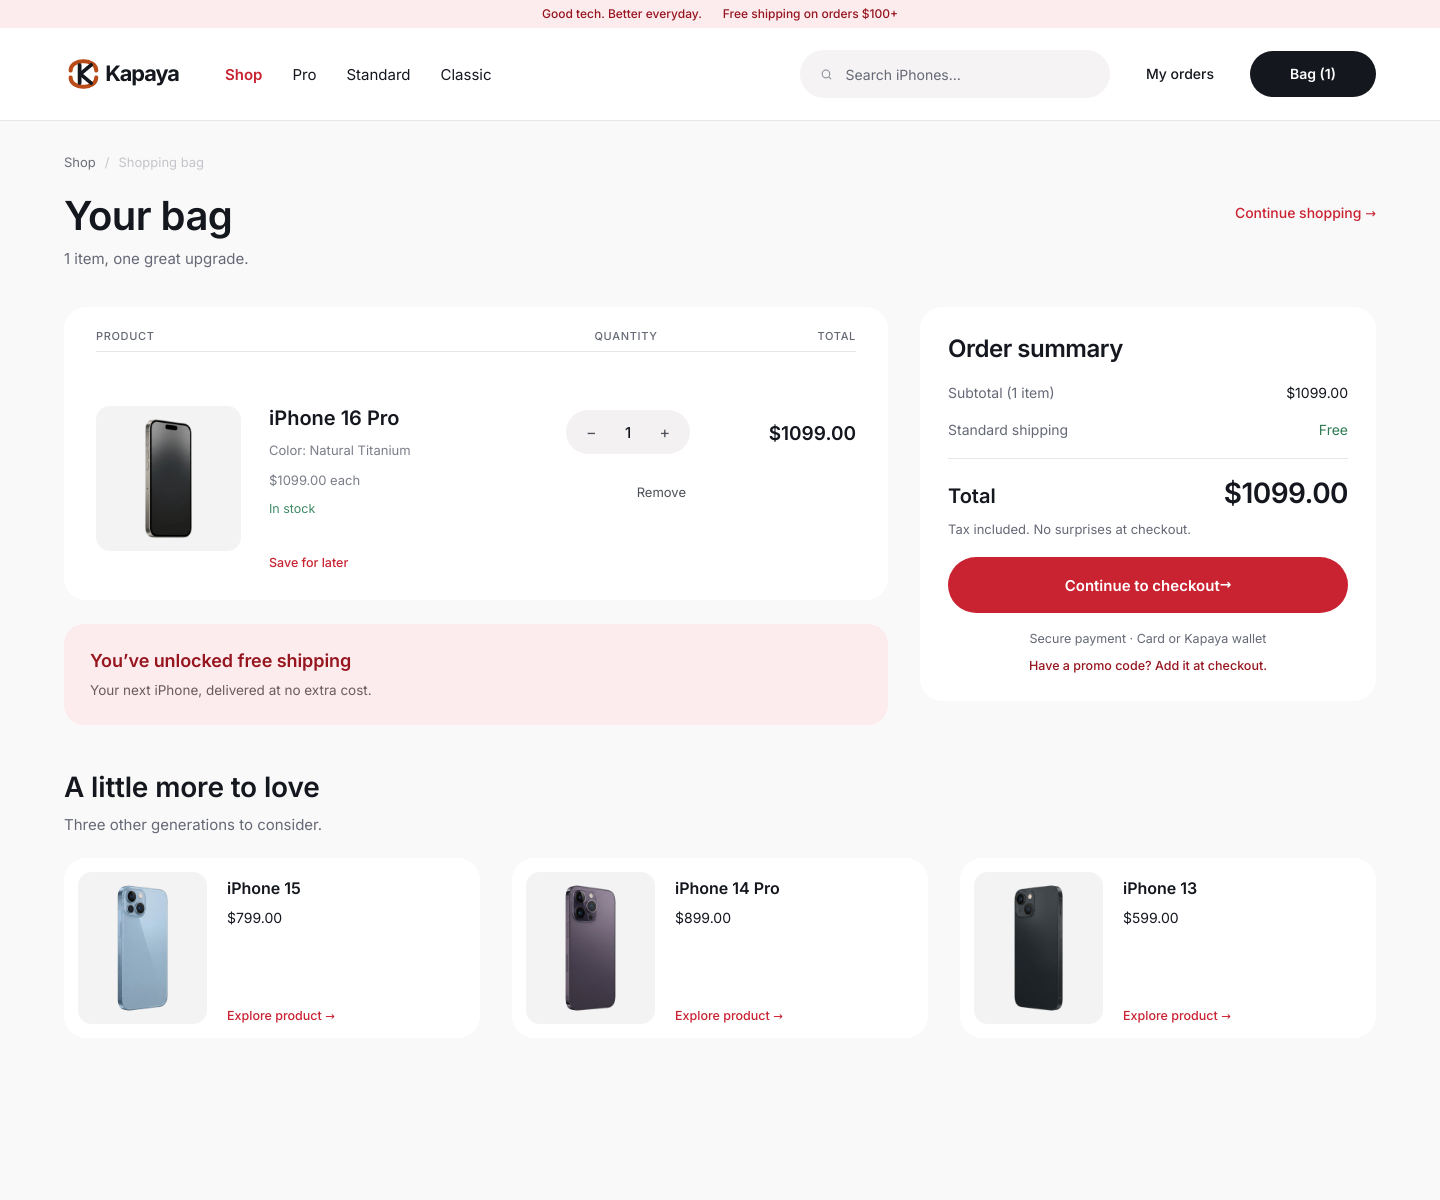
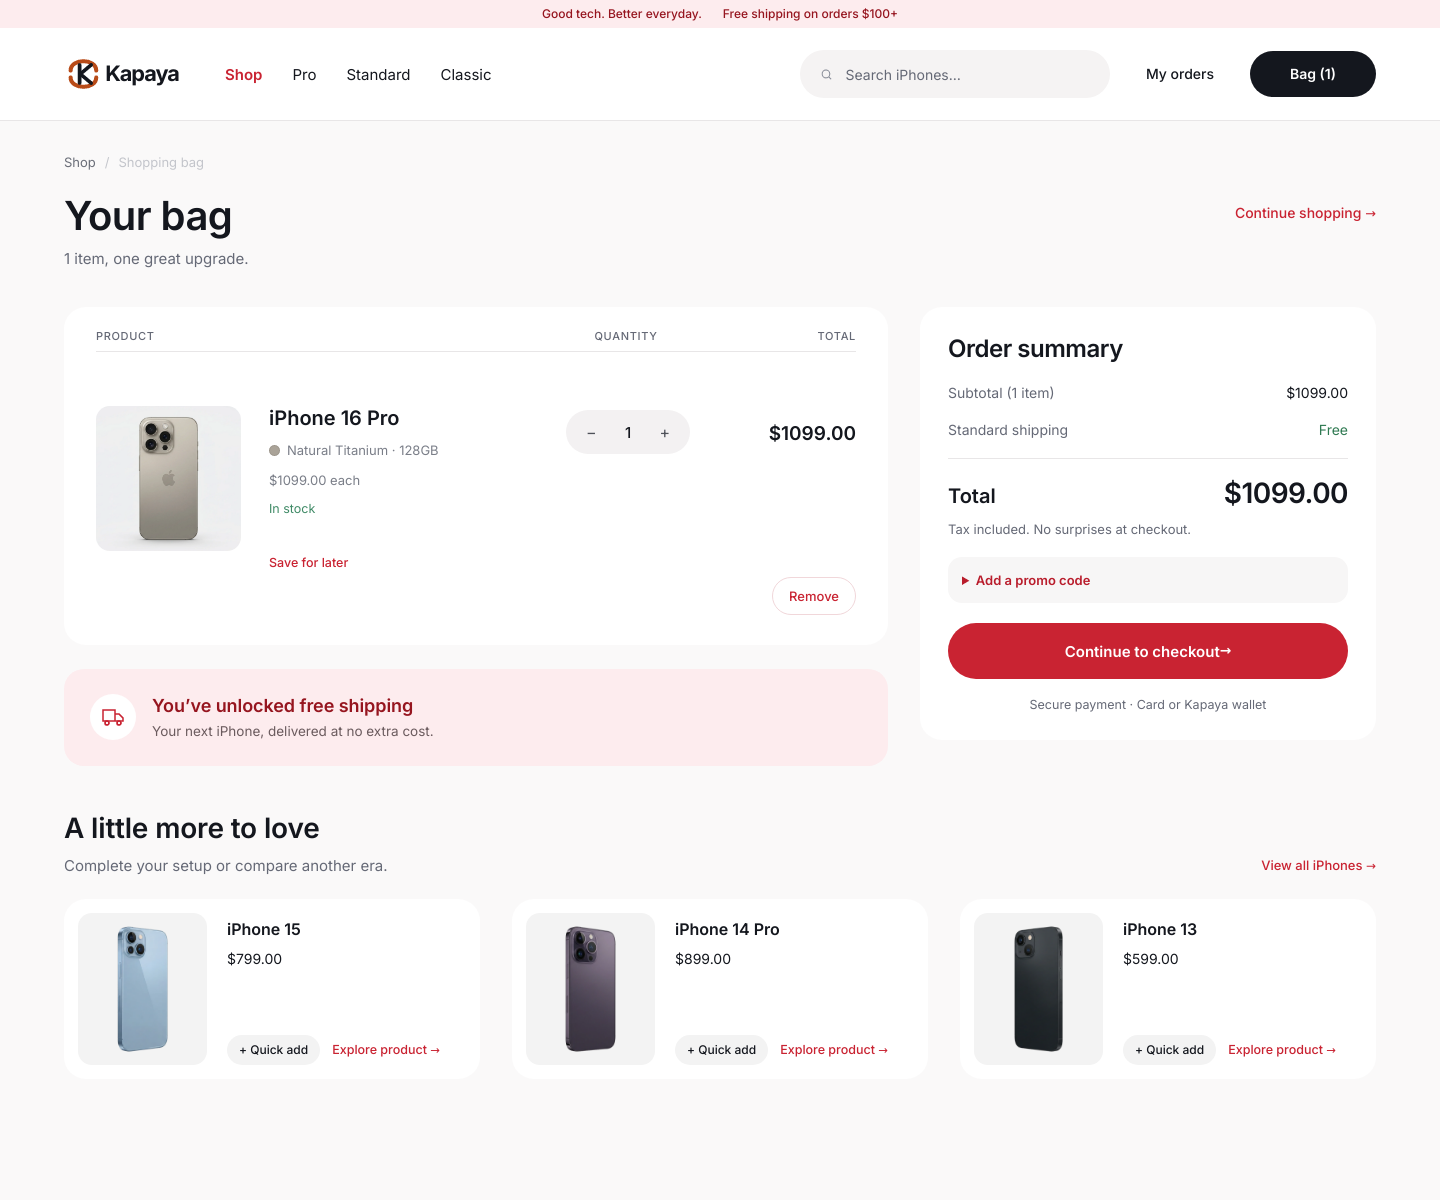
Upgrade bag layout and item controls

diff --git a/docs/mockup/index.html b/docs/mockup/index.html
@@ -1264,6 +1264,87 @@ body.is-shop .shop-footer{display:block;margin-top:auto}
   .home-ftr{padding:36px 24px 24px}
 }
 
+/* Bag: clear item controls and an editorial order summary. */
+.bag-page .bag-card{position:relative}
+.bag-page .bag-thumb img{object-fit:cover;padding:0}
+.bag-page .bag-row{position:relative;padding-bottom:45px}
+.bag-page .bag-remove{position:absolute;right:0;bottom:0;min-height:38px;padding:0 16px;margin:0;border:1px solid #f1d7da;border-radius:20px;background:#fff;color:#C92332;font:500 13px/1 Inter,sans-serif}
+.bag-page .bag-remove:hover{background:#fcecee;border-color:#e6aeb5}
+.bag-finish{display:flex;align-items:center;gap:7px}
+.bag-finish-dot{width:11px;height:11px;border-radius:50%;flex:none;border:1px solid rgba(0,0,0,.08)}
+.bag-page .ship-note{display:flex;align-items:center;gap:16px}
+.ship-icon{width:46px;height:46px;border-radius:50%;display:flex;flex:none;align-items:center;justify-content:center;background:#fff;color:#C92332}
+.ship-icon svg{width:24px;height:24px}
+.bag-page .ship-p{margin-top:5px}
+.bag-promo{background:#f7f6f6;border-radius:14px;padding:14px;margin-top:20px}
+.bag-promo summary{color:#b91d2c;font:600 13px/18px Inter;cursor:pointer}
+.bag-promo .promo-row{gap:8px}
+.bag-promo .promo-input{height:42px;background:#fff;font-size:13px}
+.bag-promo .promo-btn{height:42px;padding:0 16px;font-size:13px}
+.bag-recommend-head{display:flex;align-items:end;justify-content:space-between;gap:12px}
+.bag-view-all{color:#C92332;font:500 13px/18px Inter;white-space:nowrap}
+.also-actions{display:flex;align-items:center;flex-wrap:wrap;gap:12px;margin-top:auto;padding-top:12px}
+.also-actions .also-link{margin:0}
+.also-quick{padding:9px 12px;border-radius:18px;background:#f3f3f3;font:500 12px/1 Inter}
+.also-quick:hover{background:#e8e6e7}
+@media(max-width:960px){
+ .bag-page .bag-row{grid-template-columns:minmax(0,1fr) auto;gap:12px;padding:0 0 48px}
+ .bag-page .bag-prod{grid-row:1 / 3}
+ .bag-page .bag-qty{grid-column:2;grid-row:2;align-items:flex-end;padding:0}
+ .bag-page .bag-total{grid-column:2;grid-row:1;display:block;text-align:right;padding:0}
+ .bag-page .bag-inline-total{display:none}
+ .bag-page .bag-cols{display:none}
+}
+@media(max-width:767px){
+ .bag-page{padding:18px 14px 32px}
+ .bag-page .bag-head{margin-top:13px;gap:8px}
+ .bag-page .page-h{font-size:28px;line-height:34px}
+ .bag-page .page-p{font-size:13px;margin-top:4px}
+ .bag-page .continue{font-size:12px;margin-top:10px}
+ .bag-page .bag-grid{gap:12px;margin-top:18px}
+ .bag-page .bag-main{gap:10px}
+ .bag-page .bag-card{padding:14px;border-radius:16px;box-shadow:0 2px 14px rgba(20,23,30,.035)}
+ .bag-page .bag-row{grid-template-columns:minmax(0,1fr) auto;gap:5px 8px;padding:0 0 44px}
+ .bag-page .bag-prod{gap:12px;min-width:0}
+ .bag-page .bag-thumb{width:76px;height:96px;border-radius:11px}
+ .bag-page .bag-thumb img{object-fit:cover;padding:0}
+ .bag-page .bag-info{min-width:0}
+ .bag-page .bag-name{font-size:15px;line-height:19px}
+ .bag-page .bag-meta{font-size:11px;line-height:15px;margin-top:5px}
+ .bag-page .bag-stock{font-size:11px;margin-top:5px}
+ .bag-page .bag-save{position:absolute;bottom:4px;left:88px;margin:0;min-height:34px;font-size:11px}
+ .bag-page .bag-total{font-size:14px;line-height:19px;white-space:nowrap}
+ .bag-page .bag-qty{justify-content:flex-start}
+ .bag-page .stepper.sm{width:92px;height:34px}
+ .bag-page .stepper.sm .step{width:30px;height:34px}
+ .bag-page .bag-remove{min-height:34px;padding:0 12px;font-size:11px}
+ .bag-page .ship-note{padding:13px;border-radius:14px;gap:12px}
+ .bag-page .ship-icon{width:42px;height:42px}
+ .bag-page .ship-h{font-size:14px;line-height:18px}
+ .bag-page .ship-p{font-size:12px;line-height:16px}
+ .bag-page .summary{padding:20px;border-radius:16px;box-shadow:0 2px 14px rgba(20,23,30,.035)}
+ .bag-page .sum-h{font-size:20px;line-height:25px}
+ .bag-page .sum-line{font-size:13px;margin-top:14px}
+ .bag-page .sum-total span:last-child{font-size:23px}
+ .bag-page .sum-tax{font-size:12px;margin-top:6px}
+ .bag-page .btn-checkout{height:50px;margin-top:14px}
+ .bag-page .sum-secure{font-size:11px;margin-top:13px}
+ .bag-page .sec-h.narrow{font-size:20px;line-height:25px;margin-top:25px}
+ .bag-page .sec-p{font-size:12px;line-height:17px;margin-top:4px}
+ .bag-page .bag-view-all{font-size:11px}
+ .bag-page .also{grid-template-columns:repeat(2,minmax(0,1fr));gap:8px;margin-top:12px}
+ .bag-page .also-card{grid-template-columns:60px minmax(0,1fr);gap:8px;padding:8px;border-radius:13px}
+ .bag-page .also-plate{width:60px;height:88px;border-radius:9px}
+ .bag-page .also-body{padding:2px 0 0;min-width:0}
+ .bag-page .also-name{font-size:11px;line-height:14px}
+ .bag-page .also-price{font-size:11px;line-height:14px;margin-top:4px}
+ .bag-page .also-actions{gap:5px;padding-top:6px}
+ .bag-page .also-quick{font-size:10px;padding:7px}
+ .bag-page .also-link{font-size:0}
+ .bag-page .also-link .arw{font-size:15px}
+}
+@media(max-width:360px){.bag-page .bag-thumb{width:62px;height:90px}.bag-page .bag-prod{gap:8px}.bag-page .bag-save{left:70px}.bag-page .bag-total{font-size:12px}.bag-page .stepper.sm{width:80px}.bag-page .also-card{grid-template-columns:48px minmax(0,1fr)}.bag-page .also-plate{width:48px;height:78px}}
+
 /* Shared mobile navigation and compact storefront. */
 .mobile-chrome,.mobile-bottom{display:none}
 @media(max-width:767px){
@@ -1755,7 +1836,7 @@ const bag = (state) => {
   const also = PRODUCTS.filter((p) => !inBag.includes(p.id)).slice(0, 3);
 
   return `
-<main class="page">
+<main class="page bag-page">
   <p class="crumb"><a data-go="shop">Shop</a><span>/</span><span class="cur">Shopping bag</span></p>
 
   <div class="bag-head">
@@ -1780,11 +1861,11 @@ const bag = (state) => {
           <div class="bag-cols"><span>PRODUCT</span><span class="c-q">QUANTITY</span><span class="c-t">TOTAL</span></div>
           <div class="bag-row">
             <div class="bag-prod">
-              <div class="bag-thumb">${p.thumb ? `<img src="${img(p.thumb)}" alt="${p.name}">` : art(p.art)}</div>
+              <div class="bag-thumb"><img src="${img(productGallery(p, l.color)[0].image)}" alt="${p.name} in ${l.color}"></div>
               <div class="bag-info">
                 <h3 class="bag-name"><a data-go="product" data-arg="${p.id}">${p.name}</a></h3>
                 ${l.qty > 1 ? `<p class="bag-inline-total">${money(linePrice(l) * l.qty)} total</p>` : ''}
-                <p class="bag-meta">Color: ${l.color}${l.storage ? ` · ${l.storage}` : ''}</p>
+                <p class="bag-meta bag-finish"><span class="bag-finish-dot" style="background:${finishColors[l.color] || '#aaa'}"></span>${l.color} · ${l.storage || '128GB'}</p>
                 <p class="bag-meta">${money(linePrice(l))} each</p>
                 <p class="bag-stock">In stock</p>
                 <button class="bag-save" data-save="${l.id}" data-line-index="${lineIndex}">Save for later</button>
@@ -1792,26 +1873,26 @@ const bag = (state) => {
             </div>
             <div class="bag-qty">
               <div class="stepper sm">
-                <button class="step" data-line-qty="${l.id}" data-line-index="${lineIndex}" data-d="-1">−</button>
+                <button class="step" aria-label="Decrease ${p.name} quantity" data-line-qty="${l.id}" data-line-index="${lineIndex}" data-d="-1">−</button>
                 <span class="step-n">${l.qty}</span>
-                <button class="step" data-line-qty="${l.id}" data-line-index="${lineIndex}" data-d="1">+</button>
+                <button class="step" aria-label="Increase ${p.name} quantity" data-line-qty="${l.id}" data-line-index="${lineIndex}" data-d="1">+</button>
               </div>
-              <button class="bag-remove" data-remove="${l.id}" data-line-index="${lineIndex}">Remove</button>
             </div>
             <div class="bag-total">${money(linePrice(l) * l.qty)}</div>
+            <button class="bag-remove" aria-label="Remove ${p.name} in ${l.color} from bag" data-remove="${l.id}" data-line-index="${lineIndex}">Remove</button>
           </div>
         </div>`;
       }).join('')}
 
       ${subtotal >= 100
-        ? `<div class="ship-note">
+        ? `<div class="ship-note"><span class="ship-icon" aria-hidden="true"><svg viewBox="0 0 24 24" fill="none" stroke="currentColor" stroke-width="1.7"><path d="M2 5h12v11H2zM14 9h4l4 4v3h-8z"/><circle cx="6" cy="18" r="2"/><circle cx="18" cy="18" r="2"/></svg></span><div>
              <p class="ship-h">You’ve unlocked free shipping</p>
              <p class="ship-p">Your next iPhone, delivered at no extra cost.</p>
-           </div>`
-        : `<div class="ship-note">
+           </div></div>`
+        : `<div class="ship-note"><span class="ship-icon" aria-hidden="true"><svg viewBox="0 0 24 24" fill="none" stroke="currentColor" stroke-width="1.7"><path d="M2 5h12v11H2zM14 9h4l4 4v3h-8z"/><circle cx="6" cy="18" r="2"/><circle cx="18" cy="18" r="2"/></svg></span><div>
              <p class="ship-h">${money(100 - subtotal)} from free shipping</p>
              <p class="ship-p">Add a little more and standard delivery is on us.</p>
-           </div>`}
+           </div></div>`}
     </div>
 
     <aside class="summary">
@@ -1819,16 +1900,21 @@ const bag = (state) => {
       <div class="sum-line"><span>Subtotal (${count} item${count === 1 ? '' : 's'})</span><span>${money(subtotal)}</span></div>
       <div class="sum-line"><span>Standard shipping</span><span class="${ship === 0 ? 'green' : ''}">${ship === 0 ? 'Free' : money(ship)}</span></div>
       <div class="sum-rule"></div>
-      <div class="sum-total"><span>Total</span><span>${money(total)}</span></div>
+      ${state.discount ? `<div class="sum-line"><span>KAPAYA10</span><span class="green">−${money(state.discount)}</span></div>` : ''}
+      <div class="sum-total"><span>Total</span><span>${money(total - state.discount)}</span></div>
       <p class="sum-tax">Tax included. No surprises at checkout.</p>
+      <details class="bag-promo" ${state.promoMsg ? 'open' : ''}>
+        <summary>Add a promo code</summary>
+        <div class="promo-row"><input class="promo-input" data-promo aria-label="Promo code" placeholder="Enter code" value="${state.promo.replace(/&/g, '&amp;').replace(/"/g, '&quot;').replace(/</g, '&lt;')}"><button class="promo-btn" type="button" data-apply>Apply</button></div>
+        ${state.promoMsg ? `<p class="promo-msg" role="status">${state.promoMsg}</p>` : ''}
+      </details>
       <button class="btn-red btn-checkout" data-go="checkout">Continue to checkout <span class="arw">→</span></button>
       <p class="sum-secure">Secure payment · Card or Kapaya wallet</p>
-      <p class="sum-promo">Have a promo code? Add it at checkout.</p>
     </aside>
   </div>
 
-  <h2 class="sec-h narrow">A little more to love</h2>
-  <p class="sec-p">Three other generations to consider.</p>
+  <div class="bag-recommend-head"><div><h2 class="sec-h narrow">A little more to love</h2>
+  <p class="sec-p">Complete your setup or compare another era.</p></div><a class="bag-view-all" data-go="shop">View all iPhones <span class="arw">→</span></a></div>
   <div class="also">
     ${also.map((p) => `<article class="also-card">
       <a class="also-plate" data-go="product" data-arg="${p.id}">
@@ -1837,7 +1923,7 @@ const bag = (state) => {
       <div class="also-body">
         <h3 class="also-name"><a data-go="product" data-arg="${p.id}">${p.name}</a></h3>
         <p class="also-price">${money(p.price)}</p>
-        <a class="also-link" data-go="product" data-arg="${p.id}">Explore product <span class="arw">→</span></a>
+        <div class="also-actions"><button class="also-quick" data-quick-add="${p.id}" aria-label="Quick add ${p.name} to bag">+ Quick add</button><a class="also-link" data-go="product" data-arg="${p.id}" aria-label="Explore ${p.name}">Explore product <span class="arw">→</span></a></div>
       </div>
     </article>`).join('')}
   </div>`}
@@ -1924,11 +2010,11 @@ const checkout = (state) => {
         <div class="co-rule"></div>
         <p class="ord-l">Promo code</p>
         <div class="promo-row">
-          <input class="promo-input" data-promo placeholder="Enter code" value="${state.promo}">
+          <input class="promo-input" data-promo placeholder="Enter code" value="${state.promo.replace(/&/g, '&amp;').replace(/"/g, '&quot;').replace(/</g, '&lt;')}">
           <button type="button" class="promo-btn" data-apply>Apply</button>
         </div>
         ${state.promoMsg ? `<p class="promo-msg">${state.promoMsg}</p>` : ''}
-        <div class="sum-line"><span>Subtotal</span><span>${money(subtotal - state.discount)}</span></div>
+        <div class="sum-line"><span>Subtotal</span><span>${money(subtotal)}</span></div>
         <div class="sum-line"><span>Shipping</span><span class="${ship === 0 ? 'green' : ''}">${ship === 0 ? 'Free' : money(ship)}</span></div>
         ${state.discount ? `<div class="sum-line"><span>KAPAYA10</span><span class="green">−${money(state.discount)}</span></div>` : ''}
         <div class="sum-rule"></div>
@@ -2282,6 +2368,7 @@ function closeMobileChrome() {
 }
 
 function paint() {
+  if (store.promoMsg === 'KAPAYA10 applied. 10% off.') store.discount = Math.round(store.cart.reduce((n, l) => n + linePrice(l) * l.qty, 0) * 10) / 100;
   closeMobileChrome();
   closeHomeMenu();
   document.body.classList.remove('pdp-menu-open', 'pdp-search-open');
@@ -2386,7 +2473,7 @@ document.addEventListener('click', (e) => {
     return;
   }
   if (!e.target.closest('#home-menu')) closeHomeMenu();
-  const t = e.target.closest('[data-go],[data-scroll],[data-filter],[data-sort],[data-sortby],[data-clear],[data-qty],[data-add],[data-color],[data-storage],[data-gallery],[data-gallery-step],[data-remove],[data-save],[data-line-qty],[data-fav],[data-tab],[data-apply],[data-view],[data-receipt],[data-toast-go]');
+  const t = e.target.closest('[data-go],[data-scroll],[data-filter],[data-sort],[data-sortby],[data-clear],[data-qty],[data-add],[data-quick-add],[data-color],[data-storage],[data-gallery],[data-gallery-step],[data-remove],[data-save],[data-line-qty],[data-fav],[data-tab],[data-apply],[data-view],[data-receipt],[data-toast-go]');
   if (!t) {
     if (!e.target.closest('.sortwrap')) { const m = $('[data-sortmenu]'); if (m) m.hidden = true; }
     return;
@@ -2431,6 +2518,14 @@ document.addEventListener('click', (e) => {
     if (pill) { pill.classList.add('pop'); setTimeout(() => pill.classList.remove('pop'), 340); }
     toast(p.name + ' added to your bag.', 'View bag', 'bag');
     return;
+  }
+  if (d.quickAdd) {
+    const p = byId(d.quickAdd);
+    const color = Object.keys(finishImages[p.id])[0];
+    const line = store.cart.find((l) => l.id === p.id && l.color === color && (l.storage || '128GB') === '128GB');
+    if (line) line.qty = Math.min(9, line.qty + 1);
+    else store.cart.push({id:p.id, qty:1, color, storage:'128GB'});
+    persist(); paint(); toast(p.name + ' added to your bag.'); return;
   }
   if (d.remove) { store.cart.splice(Number(d.lineIndex), 1); persist(); paint(); return; }
   if (d.save) {
